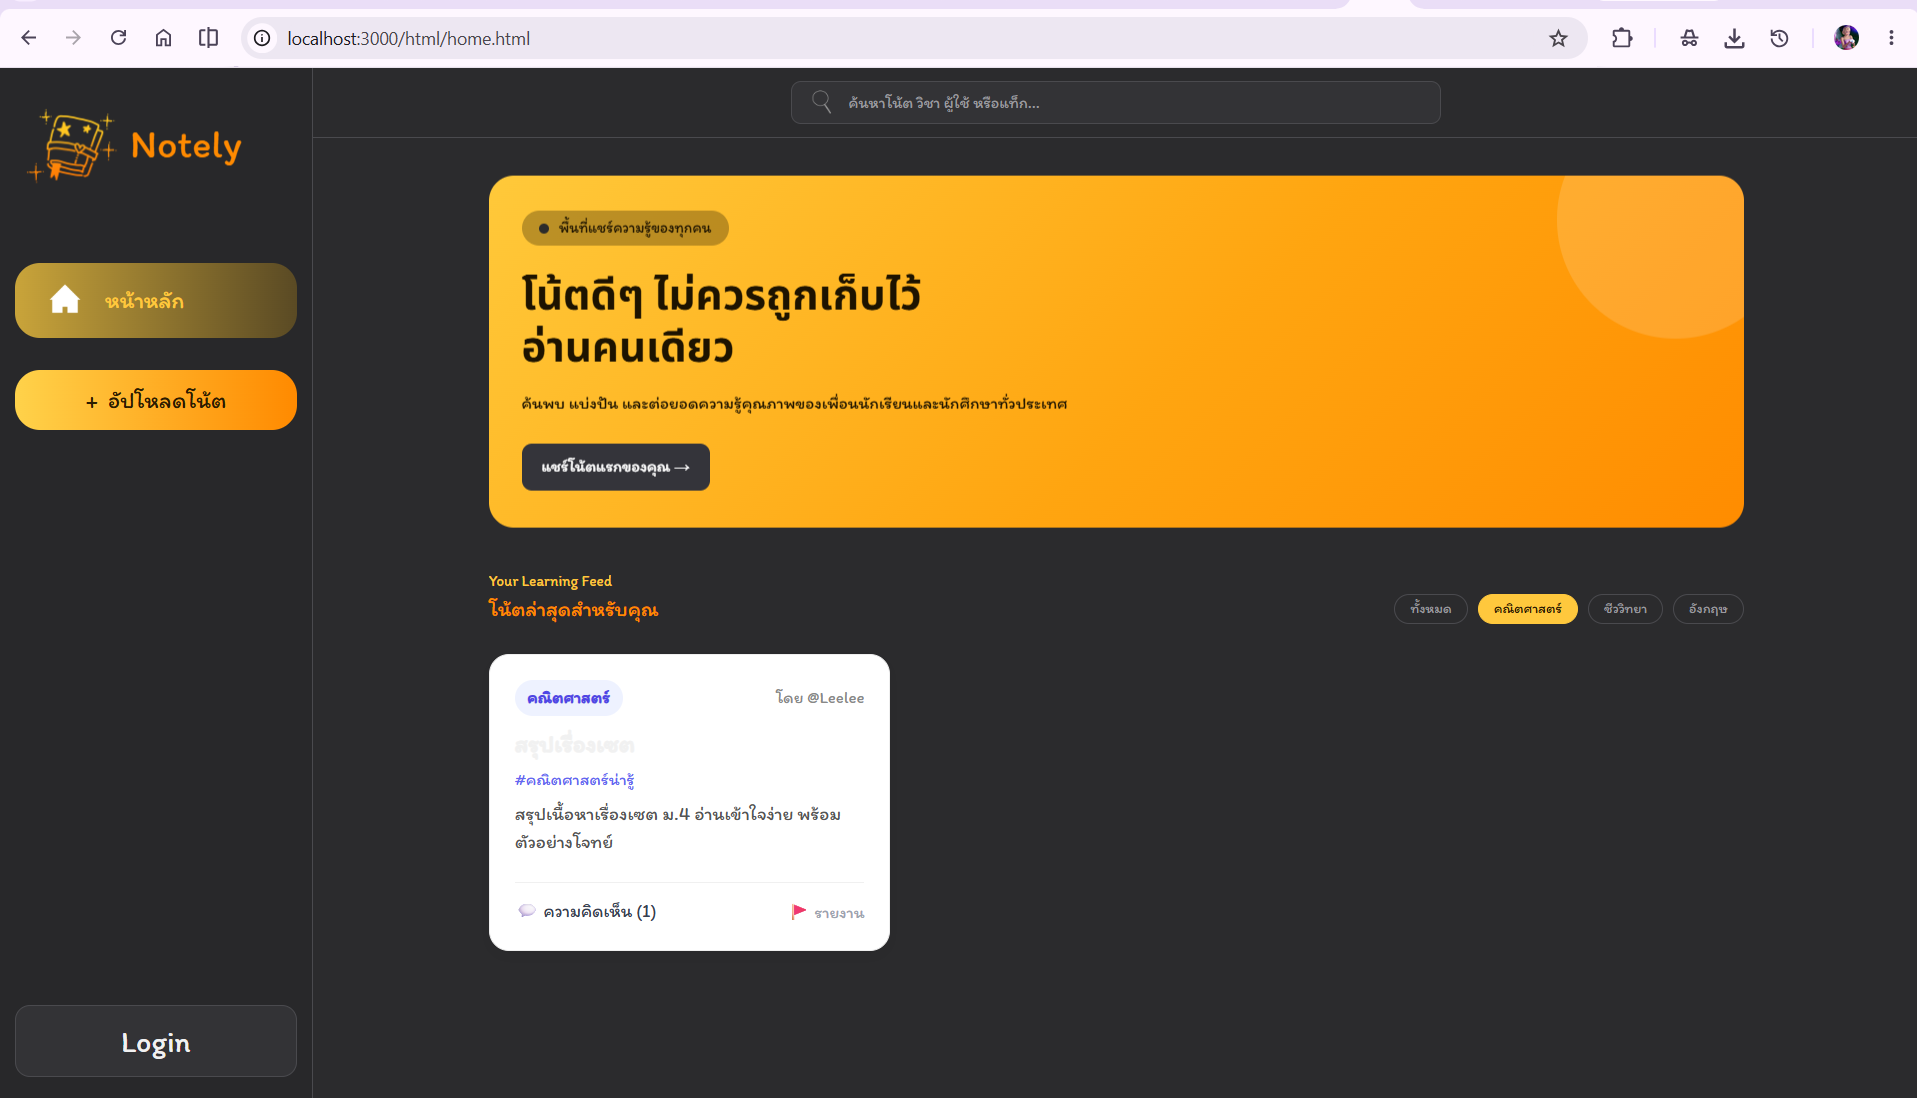
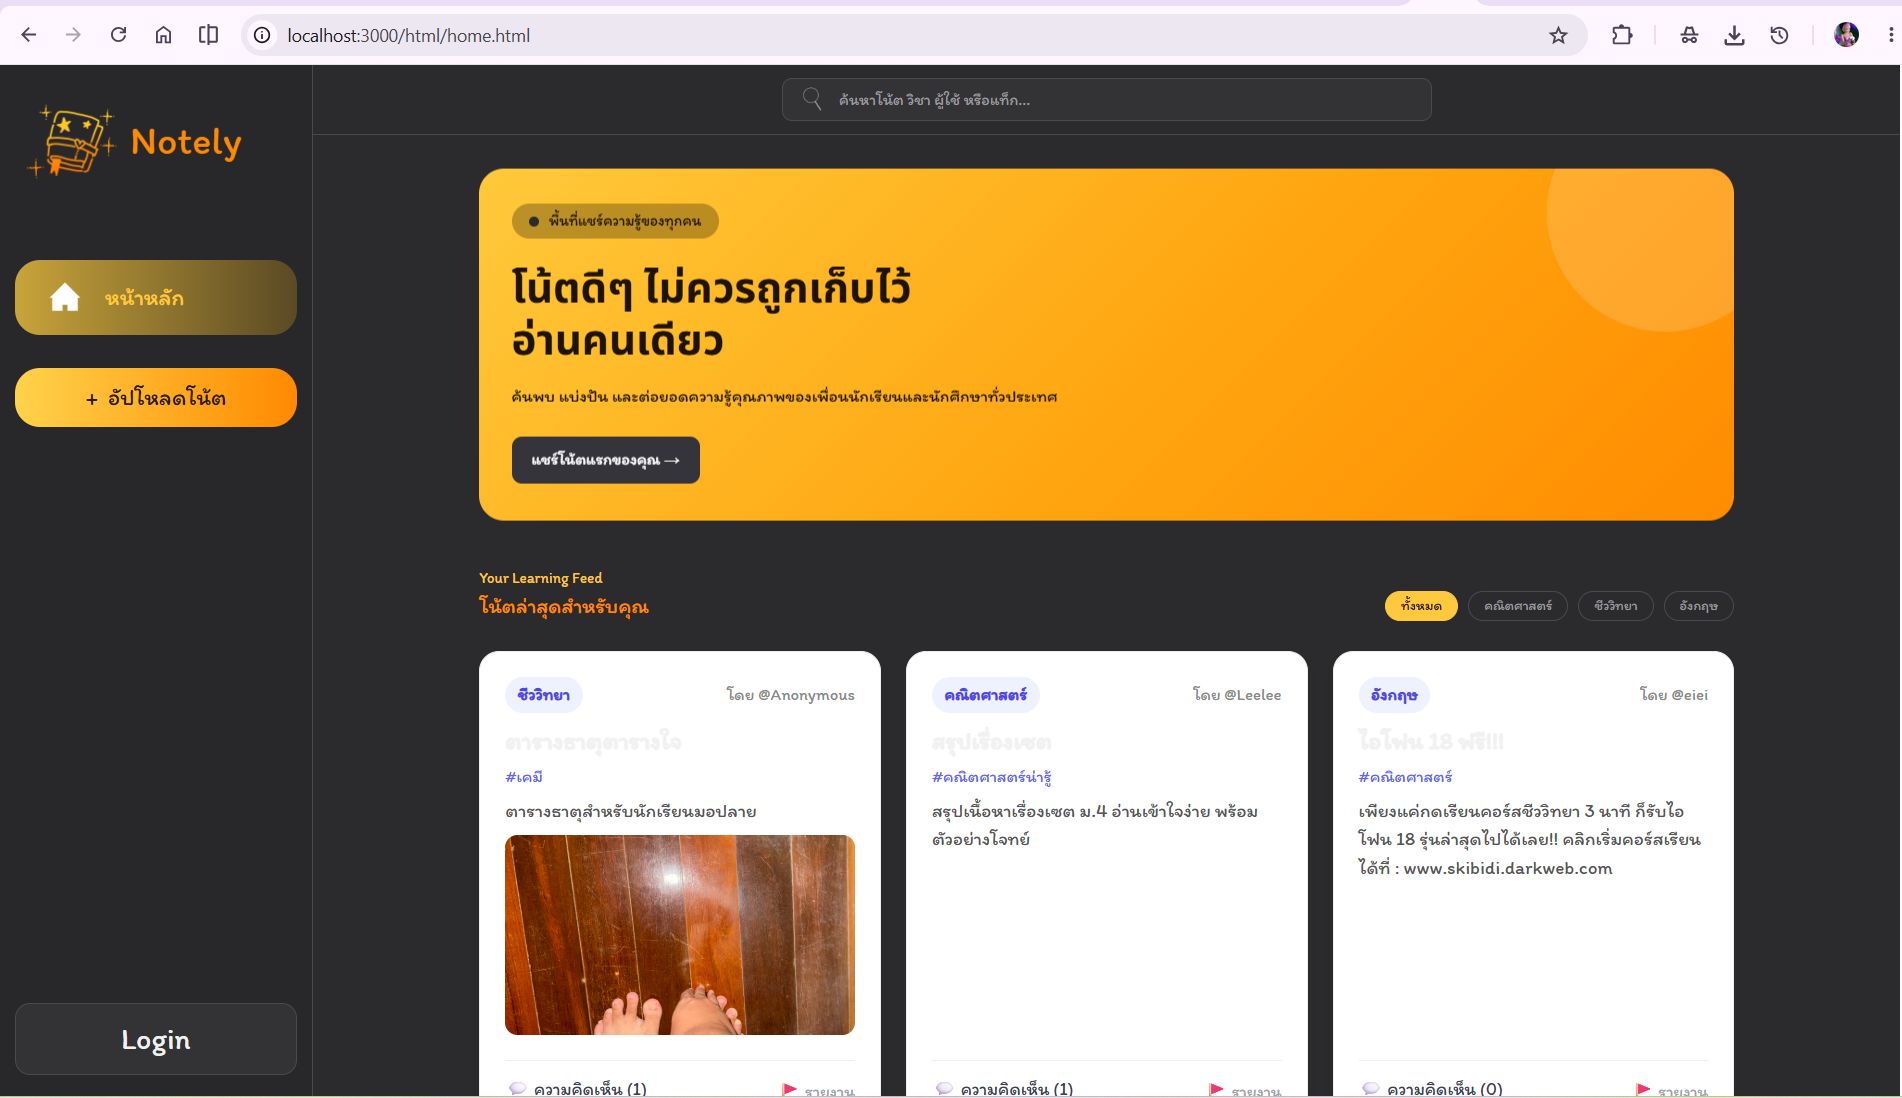
Add Photo to README.md

diff --git a/README.md b/README.md
@@ -175,6 +175,31 @@
 - ทำเอกสารประกอบโครงงาน โดยโปรแกรมจัดการเอกสาร Microsoft Word และแบ่งปันให้ผู้อื่นทำงานกันต่อด้วยโปรแกรม Discord หรือระบบ Email
 - บันทึกวิดีโอการประชุม Retrospective โดยใช้วิธีการพูดคุยผ่านระบบ Google Meet และใช้โปรแกรมบันทึกวิดีโอด้วยโปรแกรม OBS และแพลตฟอร์มแบ่งปันวิดีโอด้วย YouTube
 
+## UI Screenshot:
+![Login page](./images/1-Login.png)
+
+![Register page](./images/2-Register.png)
+
+![Home page](./images/3-HomePage.png)
+
+![Notification and Filter](./images/4-Notification&filter.png)
+
+![Bookmark page](./images/5-BookMark.png)
+
+![Profile Page](./images/6-Profile.png)
+
+![Create post page](./images/7-CreateNote.png)
+
+![Comment Page](./images/8-Comment.png)
+
+![Edit note page](./images/9-EditNote.png)
+
+![Admin Page](./images/10-Admin.png)
+
+
+## Figma Diagram:
+![Mermaid Diagram](./images/Mermaid-Diagram-.png)
+
 ## ขั้นตอนการสรุป Retrospective
 
 ### ลิงก์การรับชม
